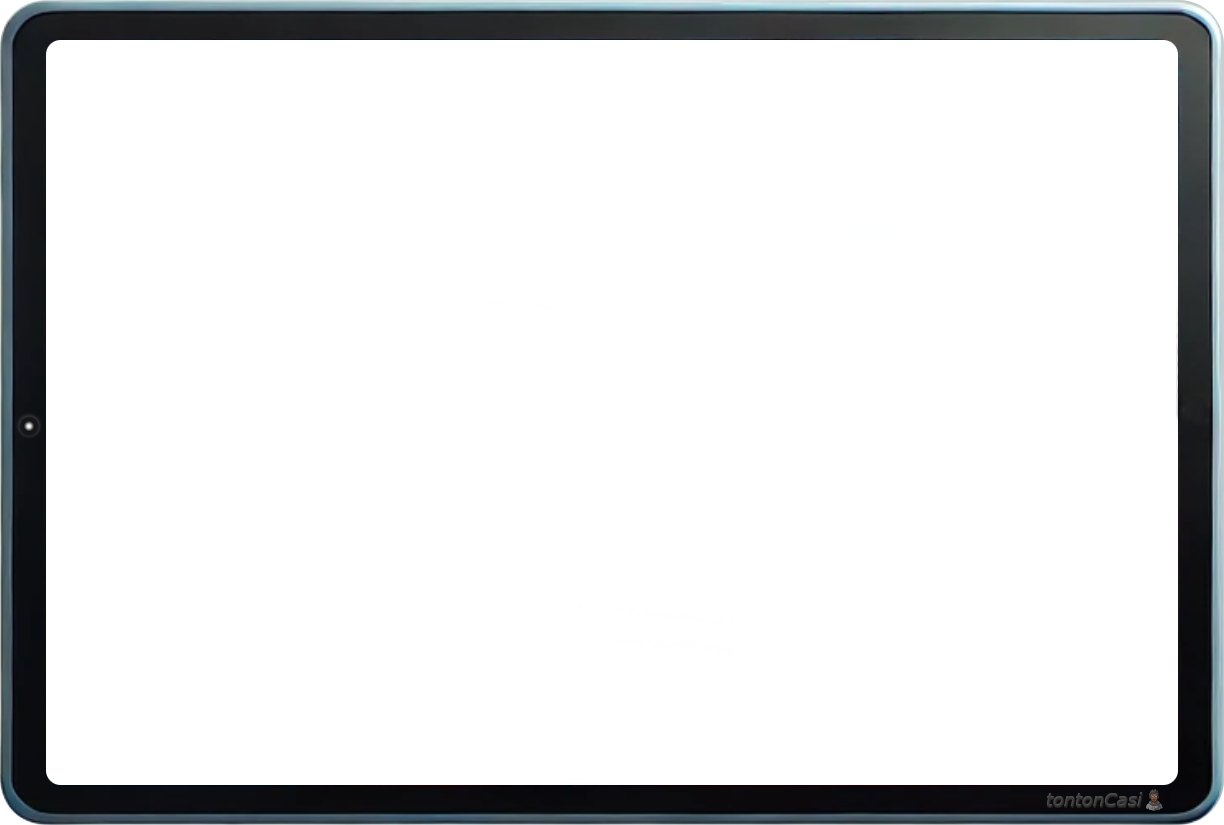
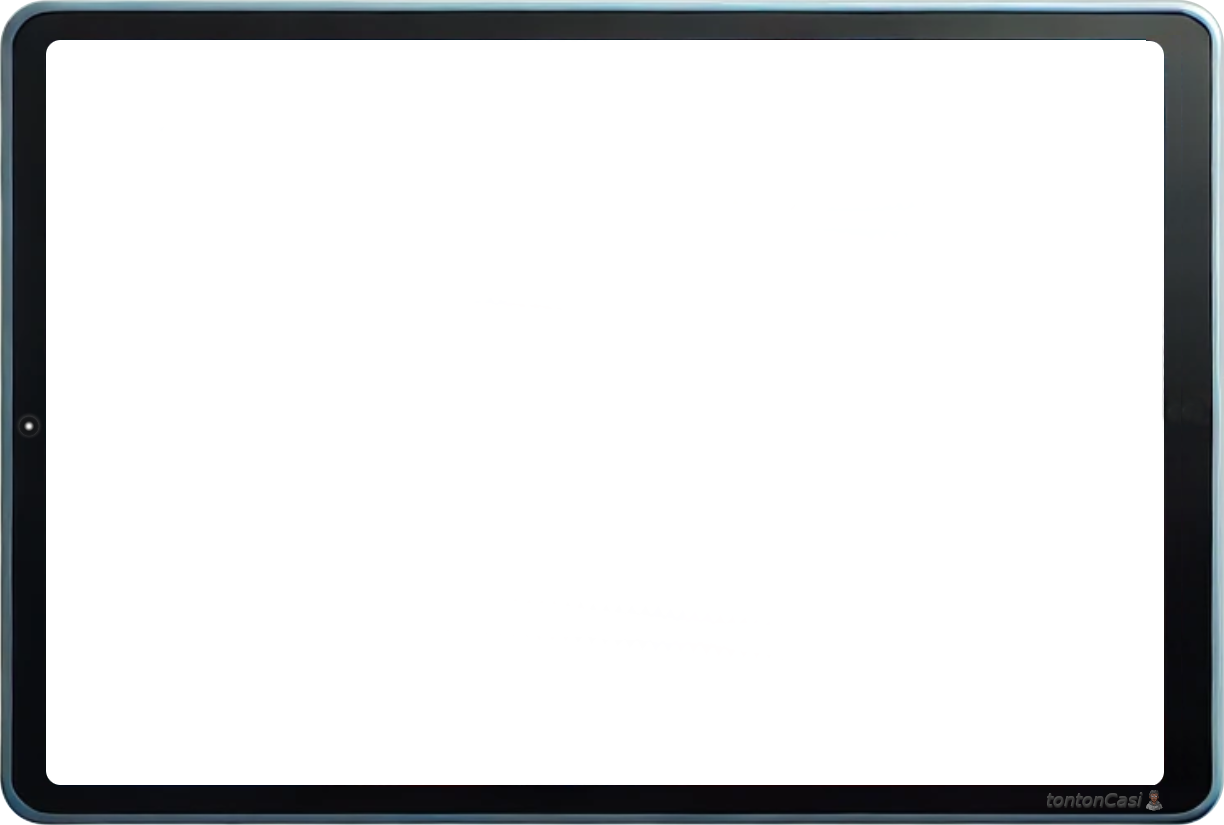
Ajout d'un fond amélioration du design

Changed region(s): [[0.9314, 0.0303, 0.9624, 0.9697]]

diff --git a/html/css/styles.css b/html/css/styles.css
@@ -57,13 +57,37 @@ body {
   z-index: 10;
   position: relative;
   margin: 50px;
-  margin-right: 1vh;
+  margin-right: 0.5vh;
   width: 97vh;
   height: 63vh;
   color: whitesmoke;
   scrollbar-width: none; /* Masquer la scrollbar */
   overflow-y: auto;
+
+  /* background-image: url('../img/tablette_fond.png'); /* chemin vers ton image */
+  /* background-size: 1200px auto; /* largeur fixe, hauteur auto 
+  background-position: center;
+  background-repeat: no-repeat;  */
+
 }
+.tablet-background {
+  margin-left: 4.2vh;
+  margin-top: 3.5vh;
+  position: fixed; /* occupe tout l'écran */
+  width: 101.5vh;
+  height: 64.3vh;
+  background-image: url('../img/tablette_fond.png'); /* chemin vers ton image */
+  background-size: cover;   /* couvre tout l'écran */
+  background-position: center; /* centré */
+  background-repeat: no-repeat;
+
+  opacity: 0.3; /* transparence (0 = invisible, 1 = opaque) */
+  z-index: 10;  /* derrière le contenu */
+
+  border-bottom-left-radius: 15px;  /* arrondi coin bas gauche */
+  border-bottom-right-radius: 15px; /* arrondi coin bas droit */
+  overflow: hidden; /* important pour masquer l’image qui dépasse */
+} 
 #btn-right {
   float: left;
   z-index: 10;

diff --git a/html/index.html b/html/index.html
@@ -24,6 +24,9 @@
       <span id="time">12:00</span>
       <span><i class="fas fa-wifi"></i> <i class="fas fa-battery-full"></i></span>
     </div>
+    
+    <div class="tablet-background"></div> <!-- Avec fond de la tablette -->
+
     <div id="content">
       <!-- ================= DEBUT CONTENU EN-DESSOUS ================= -->
 
@@ -32,6 +35,7 @@
 
     <!-- ================= DEBUT EDITION DOSSIER ================= -->
     <div id="aide_info">
+
       <div class="welcome-text">
         <h2><i class="fas fa-laptop"></i> Bienvenue sur votre Tablette EMS</h2>
         <p><i>Cette tablette n'affichera les applications disponible que si vous être EMS !</i></p>

diff --git a/html/css/profil.css b/html/css/profil.css
@@ -12,7 +12,7 @@
     border: 3px solid #007bff;
   }
   .card {
-    background-color: rgba(255,255,255,0.1);
+    background-color: rgba(255,255,255,0.5);
     border: none;
     margin-bottom: 20px;
   }
